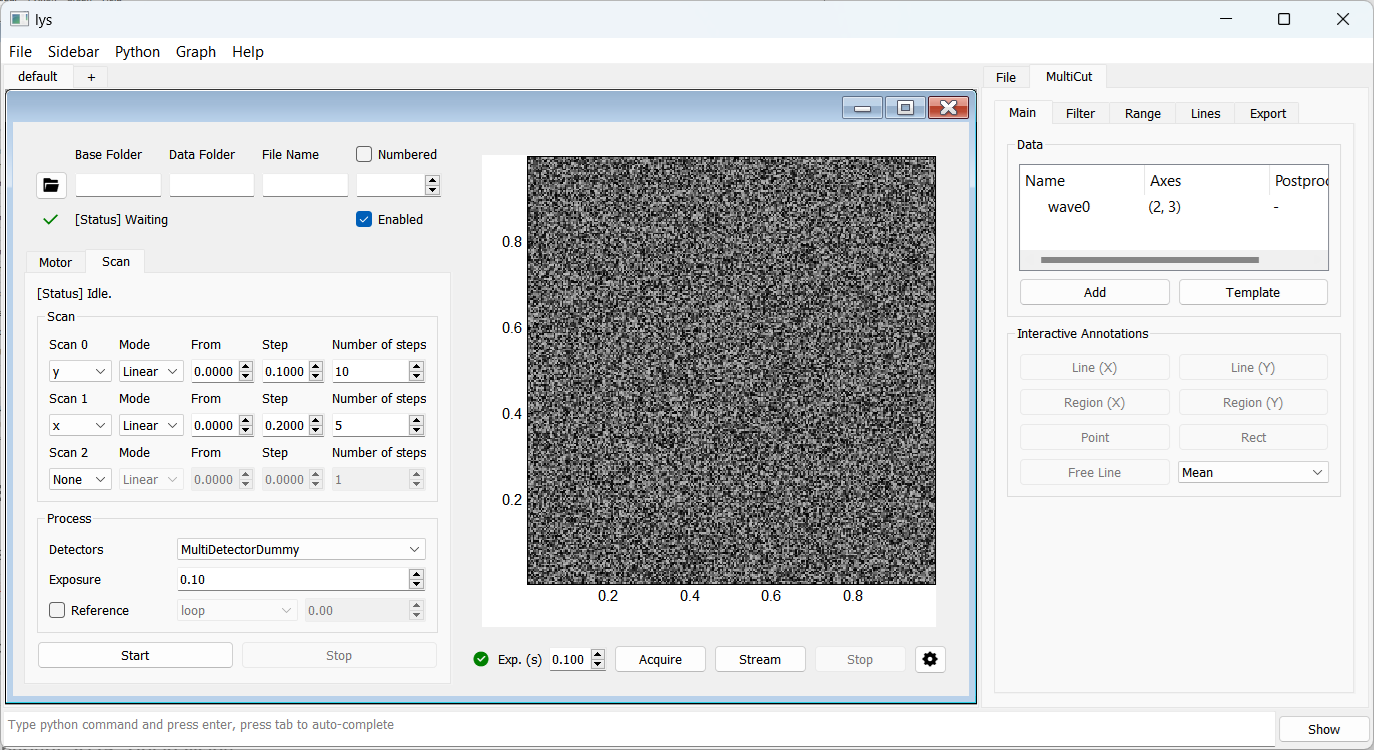
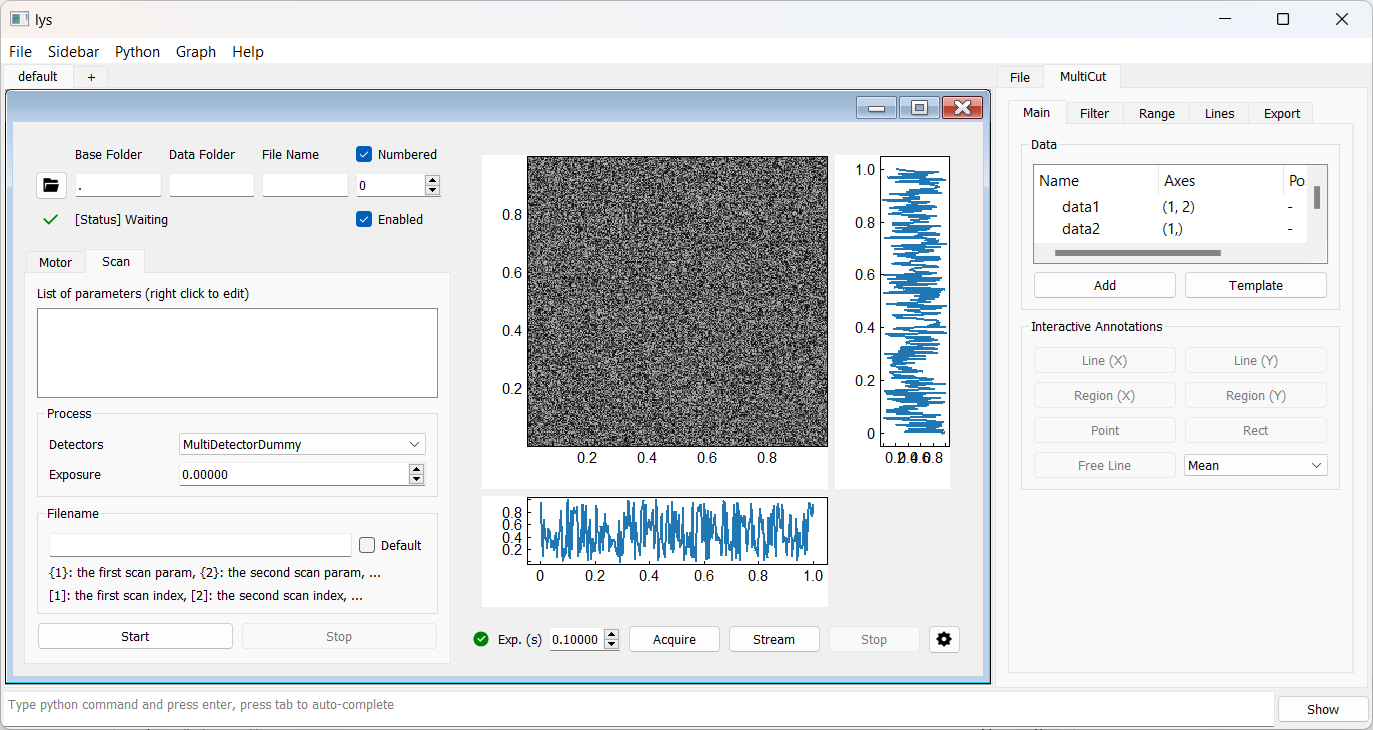
Backup.

diff --git a/docs_src/source/lys_instr_/tutorial_/scan.rst b/docs_src/source/lys_instr_/tutorial_/scan.rst
@@ -1,18 +1,15 @@
 
-Scan Configuration
-==================
+Scan
+====
 
-Basic Scan GUI
---------------
+Creating a Scan GUI
+-------------------
 
-An automated measurement often involves repeatedly executing of a sequence of operations while varying certain parameter(s).
-We call this a "scan" of a base process over a parameter.
+A "scan" coordinates multiple devices to repeatedly execute a sequence of operations while systematically varying one or more parameters.
+Typically, these parameters are controlled by motor(s), and the operation involves data acquisition by detector(s), as shown in the hands-on example.
 
-Here, we provide a basic ``Scan`` GUI widget for the simplest scan configuration (see :class:`.gui.MultiScan` for code details).
-This setup allows a detector instance to acquire data while the motor axes are scanned over a range of positions.
+Let's take a closer look at how to set up a basic scan GUI using the dummy motor, dummy detector, and storage introduced earlier.
 
-Using the previous dummy 2-axis motor, dummy 256×256 detector, and data storage for demonstration, 
-a scan GUI can be constructed as follows:
 
 .. code-block:: python
 
@@ -20,11 +17,11 @@ a scan GUI can be constructed as follows:
     from lys.Qt import QtWidgets
     from lys_instr import DataStorage, dummy, gui
 
-    class AppWindow(LysSubWindow):
+    class Window(LysSubWindow):
         def __init__(self):
             super().__init__()
             self._motor = dummy.MultiMotorDummy("x", "y")
-            self._detector = dummy.MultiDetectorDummy(indexShape=(1,), frameShape=(256, 256), exposure=0.1)
+            self._detector = dummy.MultiDetectorDummy(frameShape=(256, 256))
             self._storage = DataStorage()
             self._storage.connect(self._detector)
             self._initLayout()
@@ -35,7 +32,7 @@ a scan GUI can be constructed as follows:
             _motorGUI = gui.MultiMotorGUI(self._motor)
             _storageGUI = gui.DataStorageGUI(self._storage)
 
-            _scanGUI = gui.ScanWidget(self._storage, [self._motor], {"MultiDetectorDummy": self._detector})
+            _scanGUI = gui.ScanWidget(self._storage, [self._motor], [], {"MultiDetectorDummy": self._detector})
 
             self._tab = QtWidgets.QTabWidget()
             self._tab.addTab(_motorGUI, "Motor")
@@ -53,25 +50,113 @@ a scan GUI can be constructed as follows:
             w.setLayout(HBox)
             self.setWidget(w)
 
-            mcut = _detectorGUI._mcut
-            wave = mcut.cui._children.addWave([1, 2])
-            mcut.display(wave, type="grid", pos=(0, 0), wid=(4, 4))
 
+GUI Overview
+------------
 
-Adding the above code to ``proc.py`` in *lys* and then calling this ``AppWindow()`` in the *lys* command line launches the GUI subwindow as follows:
+Let's first look at the GUI before diving into the code.
+Add the above code to ``proc.py`` in *lys* and then call this ``Window()`` from the *lys* command line to launch the GUI subwindow as shown below:
 
 .. image:: /lys_instr_/tutorial_/scan_1.png
 
-Opening the "Scan" tab shows the scan configuration. 
-Setting the parameters as shown below enables nested scans in a depth-first manner—that is, 
-the y-axis is scanned from 0 to 1 with a step size of 0.1 for each position of the x-axis, 
-which is scanned from 0 to 1 with a step size of 0.2.
+To configure the scan, open the **Scan** tab:
 
 .. image:: /lys_instr_/tutorial_/scan_2.png
 
+The "Process" box displays the base or lowest-level process, which by default is the detector's acquisition process.
+(See the Advanced section for details on customizing the base process.)
+Here, the dummy detector is selected and we will set the exposure time to 0.1 second.
 
-User customization
-------------------
+Scan loops are configured in the "List of parameters" box.
+Right-click the blank space and select "Add new scan" to add the first scan loop, which repeats the base process.
 
-Users can create custom scan processes and GUI widgets by appropriately combining ``MultiMotor``, ``MultiDetector``, and ``DataStorage`` instances.
-See the next `Advanced` section and examples there for details on more complex configurations.
+.. image:: /lys_instr_/tutorial_/scan_3.png
+
+"Loop" in the first column indicates a pure repetition of the base process without varying any parameter.
+Then, only the "Number of Steps" needs to be defined.
+(The default "Loop" process is not the focus of this tutorial.)
+
+To sweep a motor axis, select the desired axis in the first column.
+
+.. image:: /lys_instr_/tutorial_/scan_4.png
+
+In "Linear" mode, the "From", "Step", and "Number of Steps" columns define the range of values for that axis.
+For here, we choose the "y" axis for a linear scan from 0 with a step of 0.1 for 10 steps.
+
+Alternatively, in "Free" mode, you can input a Python expression—such as a list of specific values, or a NumPy array like ``np.arange(0, 1, 0.1)``—in the "Expression" field.
+
+.. image:: /lys_instr_/tutorial_/scan_5.png
+
+We can add a second scan loop that repeats the first scan loop by right-clicking the blank space again and selecting "Add new scan."
+Similarly, we choose the "x" axis for a linear scan from 0 with a step of 0.1 for 10 steps.
+
+.. image:: /lys_instr_/tutorial_/scan_6.png
+
+This configuration performs a nested scan, acquiring data over a 10×10 2D grid by scanning the y-axis at each x-axis position.
+
+By design, the "Numbered" checkbox in the **Storage** panel and the "Exp." field in the **Detector** panel are automatically overridden when running a scan.
+
+
+Code Overview
+-------------
+
+Let's return to the code to see how the GUI is constructed.
+The ``Window`` class inherits from ``LysSubWindow`` to create a subwindow in *lys*.
+(We will not discuss further details of this class here; users can take it as a template for creating subwindows.)
+
+The ``__init__`` method instantiates the motor, detector, and storage, and connects the storage to the detector as explained earlier.
+The ``_initLayout`` method, called within the ``__init__`` creates the full GUI, including the Scan interface.
+
+In the ``_initLayout``, the individual GUI components for the detector, motor, and storage are created first, using their instances.
+Recall that you should use your own device-specific instances in real applications (see the Advanced section for details on how to make interfaces to real instruments).
+
+.. code-block:: python
+
+    _detectorGUI = gui.MultiDetectorGUI(self._detector)
+    _motorGUI = gui.MultiMotorGUI(self._motor)
+    _storageGUI = gui.DataStorageGUI(self._storage)
+
+
+Next, the scan GUI is created using the ``ScanWidget`` class.
+This class takes the storage instance, a list of motor instances, a list of switch instances (empty for here; see the Advanced section for details on switches), 
+and a dictionary of detector instances ({name_of_your_Detector: your_detector_instance}) as arguments.
+You can customize this line to include your own motor, switch, or detector instances as needed for your setup.
+
+.. code-block:: python
+
+    _scanGUI = gui.ScanWidget(self._storage, [self._motor], [], {"MultiDetectorDummy": self._detector})
+
+
+Then, we create a tab widget (``_tabWidget``) to hold the motor and scan GUIs, adding ``_motorGUI`` and ``_scanGUI`` as tabs with appropriate labels ("Motors" and "Scan").
+
+.. code-block:: python
+
+    _tabWidget = gui.TabWidget()
+    _tabWidget.addTab(_motorGUI, "Motors")
+    _tabWidget.addTab(_scanGUI, "Scan")
+
+
+Finally, assembling the storage GUI, tab widget, and detector GUI using vertical and horizontal box layouts completes the GUI as shown above.
+
+.. code-block:: python
+
+    VBox = QtWidgets.QVBoxLayout()
+    VBox.addWidget(_storageGUI)         # Storage GUI at the top left
+    VBox.addWidget(self._tab)           # Tab widget (motor and scan) below storage GUI
+
+    HBox = QtWidgets.QHBoxLayout()
+    HBox.addLayout(VBox)                # Storage and tab on the left
+    HBox.addWidget(_detectorGUI)        # Detector GUI on the right
+    
+    w = QtWidgets.QWidget()
+    w.setLayout(HBox)
+    self.setWidget(w)
+
+
+The example above shows the minimal setup required to perform a scan with *lys_instr*.
+
+We provide several templates on the next page.
+Users can use them directly or make simple modifications to fit their needs.
+
+For more advanced customization, please refer to the Advanced section and the examples provided there.
+

diff --git a/docs_src/source/lys_instr_/tutorial_/storage.rst b/docs_src/source/lys_instr_/tutorial_/storage.rst
@@ -36,7 +36,7 @@ To create the storage GUI subwindow:
             self.setWidget(storageGUI)
             self.adjustSize()
 
-Calling ``Window()`` in the *lys* command line launches the GUI subwindow like the one below:
+Calling ``Window()`` in the *lys* command line launches the GUI subwindow as shown below:
 
 .. image:: /lys_instr_/tutorial_/storage_1.png
 
@@ -47,7 +47,7 @@ You can enter a "Folder Name" and "File Name" (without extension) directly.
 
 The "Enabled" checkbox toggles data saving on or off.
 The "Numbered" checkbox enables automatic numbering in file names:
-the number specified in the spin box is appended to the file name (e.g., "DataFolder/FileName_0.npz", "DataFolder/FileName_1.npz").
+the number specified in the spin box is appended to the file name (e.g., "yourDataFolder/yourFileName_0.npz", "yourDataFolder/yourFileName_1.npz").
 Data is saved in NumPy ndarray format (.npz).
 
 
@@ -55,7 +55,7 @@ Connecting Storage to Detector
 ------------------------------
 
 In practice, a storage is used to save data acquired by a detector.
-Simply connecting a storage instance to a detector instance enables automated data flow management.
+Simply connecting a storage instance to a detector instance using the storage's ``connect()`` method enables automated data saving.
 
 Using the same detector instance as on the previous page, you can create a GUI for connected storage and detector:
 
@@ -68,25 +68,27 @@ Using the same detector instance as on the previous page, you can create a GUI f
     class Window(LysSubWindow):
         def __init__(self):
             super().__init__()
-            self._detector = dummy.MultiDetectorDummy(frameShape=(256, 256))
-            self._storage = DataStorage()
-            self._storage.connect(self._detector)       # Connect storage to detector
-            self._initLayout()
-            self.adjustSize()
+            detector = dummy.MultiDetectorDummy(frameShape=(256, 256))
+            storage = DataStorage()
+            storage.connect(detector)               # Connect storage to detector
 
-        def _initLayout(self):
-            detectorGUI = gui.MultiDetectorGUI(self._detector)
-            storageGUI = gui.DataStorageGUI(self._storage)
+            detectorGUI = gui.MultiDetectorGUI(detector)
+            storageGUI = gui.DataStorageGUI(storage)
 
-            VBox = QtWidgets.QVBoxLayout()      # Create a vertical box layout
-            VBox.addWidget(storageGUI)          # Add storage GUI to the box (upper)
-            VBox.addWidget(detectorGUI)         # Add detector GUI to the box (lower)
+            VBox = QtWidgets.QVBoxLayout()          # Create a vertical box to hold the two GUIs
+            VBox.addWidget(storageGUI)              # Add storage GUI to the box (upper)
+            VBox.addWidget(detectorGUI)             # Add detector GUI to the box (lower)
 
             w = QtWidgets.QWidget()
             w.setLayout(VBox)
             self.setWidget(w)
 
-Calling ``Window()`` in the *lys* command line launches the combined GUI subwindow like the one below:
+            self.adjustSize()
+
+The GUI layout is constructed using standard *QtWidgets* conventions (in the last 2-7 lines of the code above); 
+you can ignore these details for now in this tutorial.
+
+Calling ``Window()`` in the *lys* command line launches the combined GUI subwindow as shown below:
 
 .. image:: /lys_instr_/tutorial_/storage_2.png
 

diff --git a/docs_src/source/lys_instr_/tutorial_/detector.rst b/docs_src/source/lys_instr_/tutorial_/detector.rst
@@ -8,7 +8,6 @@ Creating a Detector Instance
 A detector instance is created by subclassing ``MultiDetectorInterface``, which provides essential features for a multi-dimensional detector.
 For real hardware, you should implement device-specific communication methods in your subclass (see ... for details).  
 
-
 For demonstration, we use the dummy detector ``MultiDetectorDummy`` (a subclass of ``MultiDetectorInterface``) to simulate detector behavior without connecting to real hardware.
 A dummy detector instance with user-defined data dimensions (here configured to capture 2D 256×256 images as an example) can be created as follows:
 
@@ -44,14 +43,21 @@ To create the detector GUI subwindow:
             self.setWidget(detectorGUI)                                 # Embed the detector GUI in the lys subwindow
             self.adjustSize()
 
-Calling ``Window()`` in the *lys* command line launches the GUI subwindow like the one below:
+Calling ``Window()`` in the *lys* command line launches the GUI subwindow as shown below:
 
 .. image:: /lys_instr_/tutorial_/detector_1.png
 
 
 You can change the exposure time using the spin box or by direct input, then click "Acquire" for a single shot, "Stream" for continuous acquisition, or "Stop" to halt the process.
 
-The "Settings" button opens a dialog for configuring repetition and update frequency.
-The green indicator shows the connection status of the detector.
+The indicator at the bottom left shows the connection status—green for a successful connection, and red for a disconnected or error state.
+
+Clicking the "Settings" button opens a dialog.
+
+.. image:: /lys_instr_/tutorial_/detector_2.png
+    :scale: 80%
+
+Within the dialog, you can use the spin box next to "Repeat" to set the number of frames per acquisition and the spin box next to "Update every" to change the display refresh rate.
+You can also click the "Update" button at any time to refresh the display manually.
 
 See also :doc:`Detector Options </lys_instr_/tutorial_/detectorOptions>` for details on displaying multi-dimensional data with nontrivial data shapes.

diff --git a/docs_src/source/lys_instr_/tutorial_/motorGUI.rst b/docs_src/source/lys_instr_/tutorial_/motorGUI.rst
@@ -1,23 +1,4 @@
 
-Motor
-=====
-
-Creating a Motor Instance
--------------------------
-
-A motor instance is created by subclassing ``MultiMotorInterface``, which provides essential features for a generic multi-axis motor.
-For real hardware, you should implement device-specific communication methods in your subclass (see ... for details).
-
-For demonstration, we use the dummy motor ``MultiMotorDummy`` (a subclass of ``MultiMotorInterface``) to simulate motor behavior without connecting to real hardware.
-A dummy motor instance with two user-defined axes, here named "x" and "y" as an example, can be created as follows:
-
-.. code-block:: python
-
-    from lys_instr import dummy
-
-    motor = dummy.MultiMotorDummy("x", "y")
-
-
 Creating the Motor GUI
 ----------------------
 

diff --git a/docs_src/source/lys_instr_/tutorial_/handsOn.rst b/docs_src/source/lys_instr_/tutorial_/handsOn.rst
@@ -2,7 +2,7 @@ A Simple Hands-On Example
 -------------------------
 
 Suppose we want to automate taking a series of photos of a sample while sweeping the applied electric field.
-We need to control a camera to capture images after setting the electric field to a sequence of specific values.
+We need to control a camera to capture images after setting the electric field to a sequence of values.
 
 With *lys_instr*, we can easily build a GUI to manage this measurement workflow. 
 Let's first take a quick look at a minimal template.
